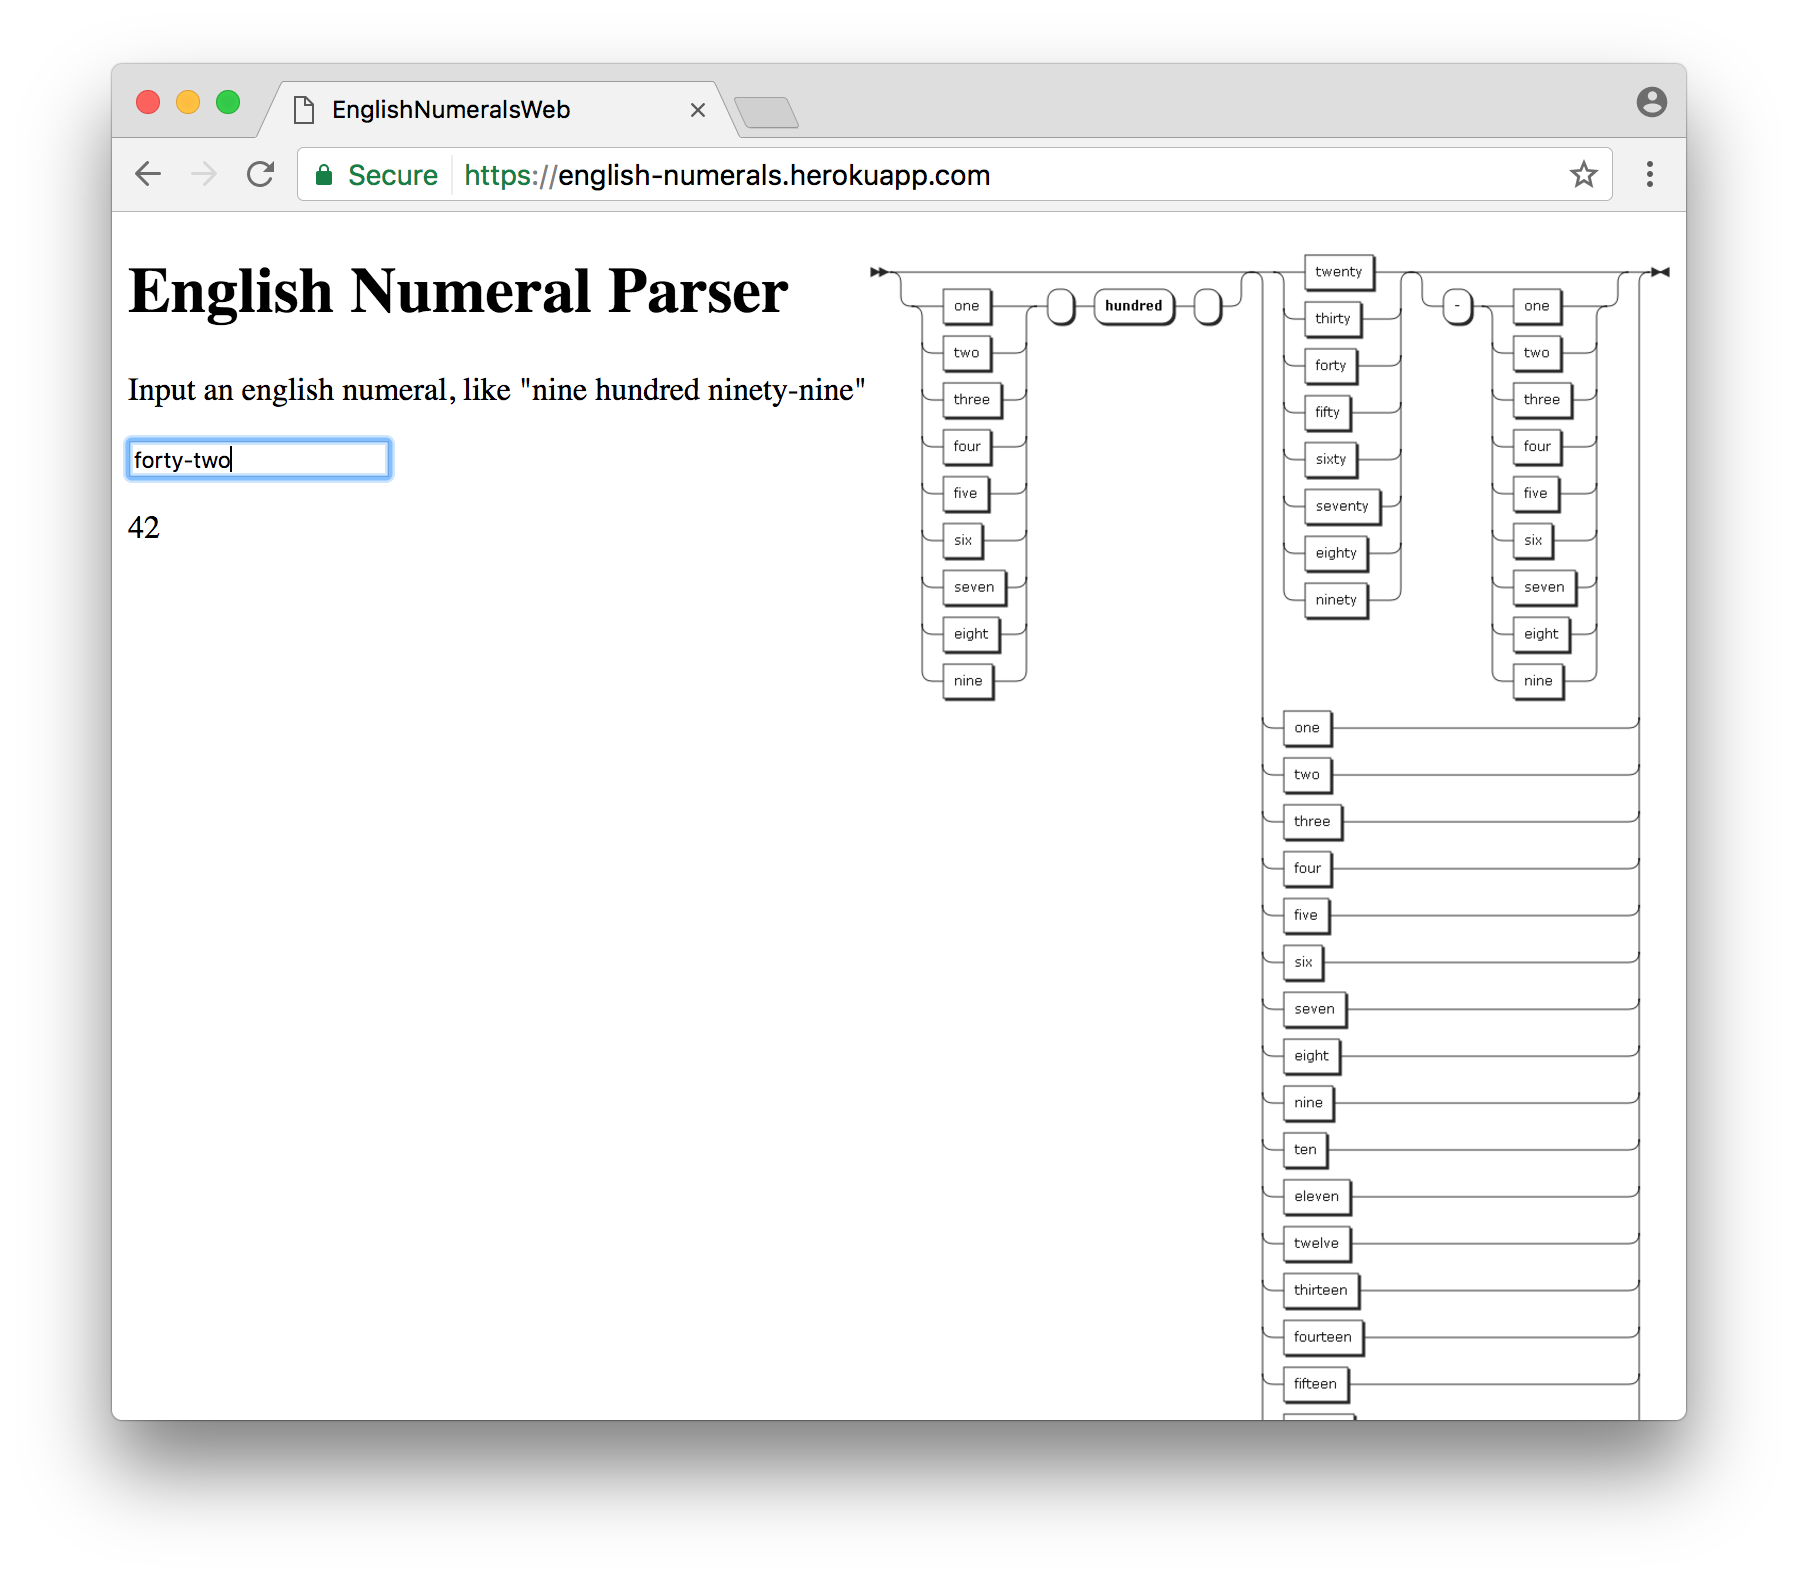
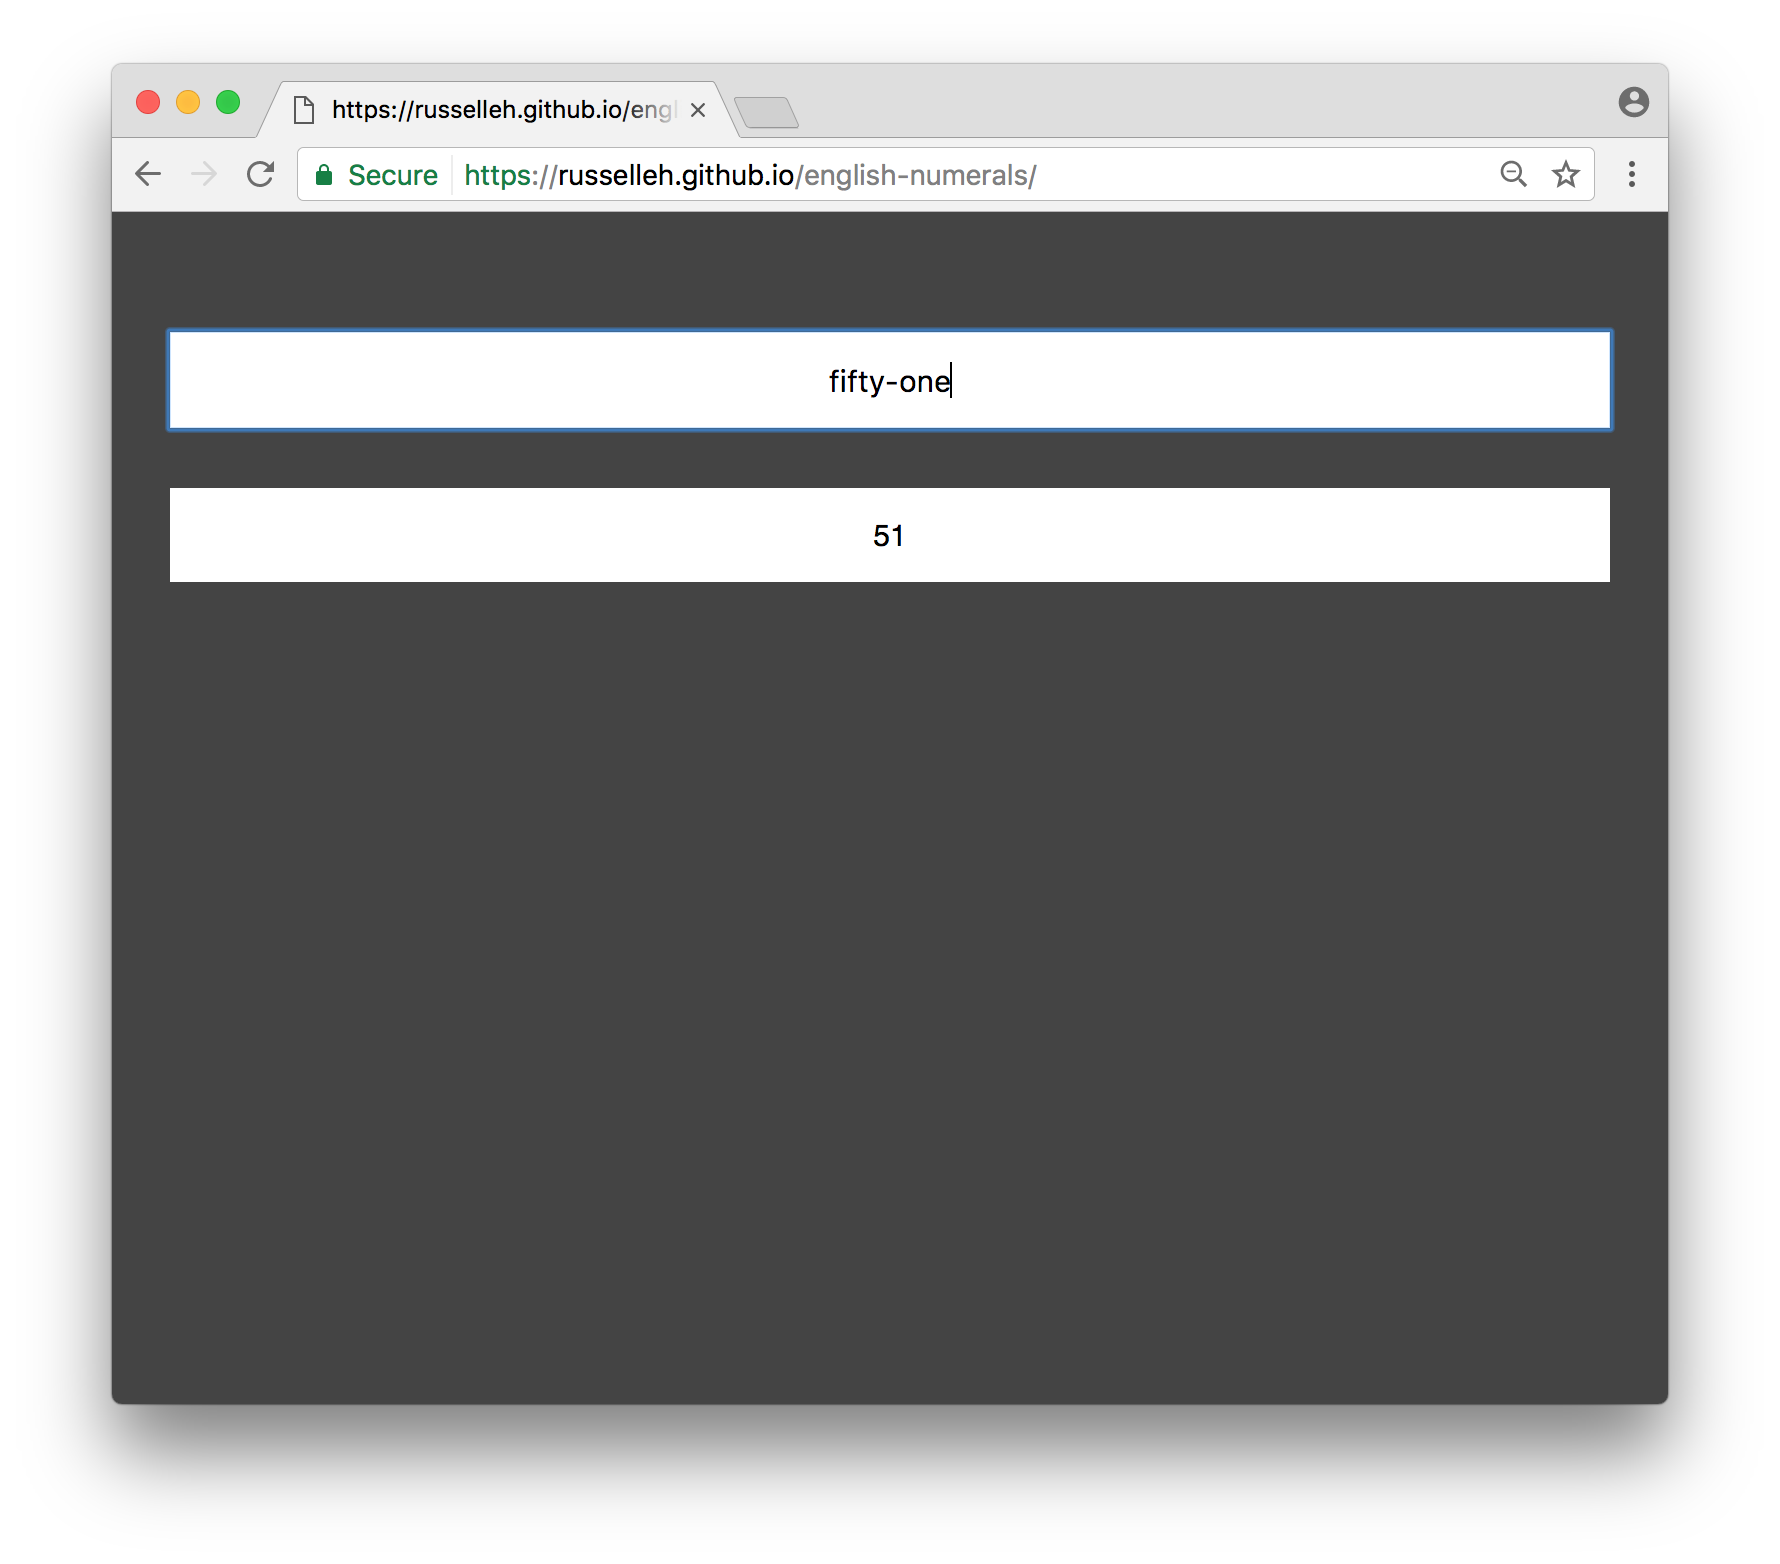
Add english numerals page

diff --git a/index.html b/index.html
@@ -50,15 +50,14 @@
       </div>
       <div class="item">
         <h2>English Numerals</h2>
-        <a href="https://english-numerals.herokuapp.com/">
+        <a href="https://russelleh.github.io/english-numerals/">
           <img src="./english-numerals.png">
         </a>
         <a href="https://github.com/russelleh/english-numerals">Source</a>
         <p>
           This tool parses numbers written in english without symbols, such
-          as the word 'one' or the term 'eight hundred'. This page uses a
-          parsing library on the backend. A railroad diagram serves as the
-          instructions.
+          as 'one' or 'eight hundred'. This page uses the PEG.js parsing
+          library to compile javascript from a grammar file.
         </p>
       </div>
       <div class="item">
